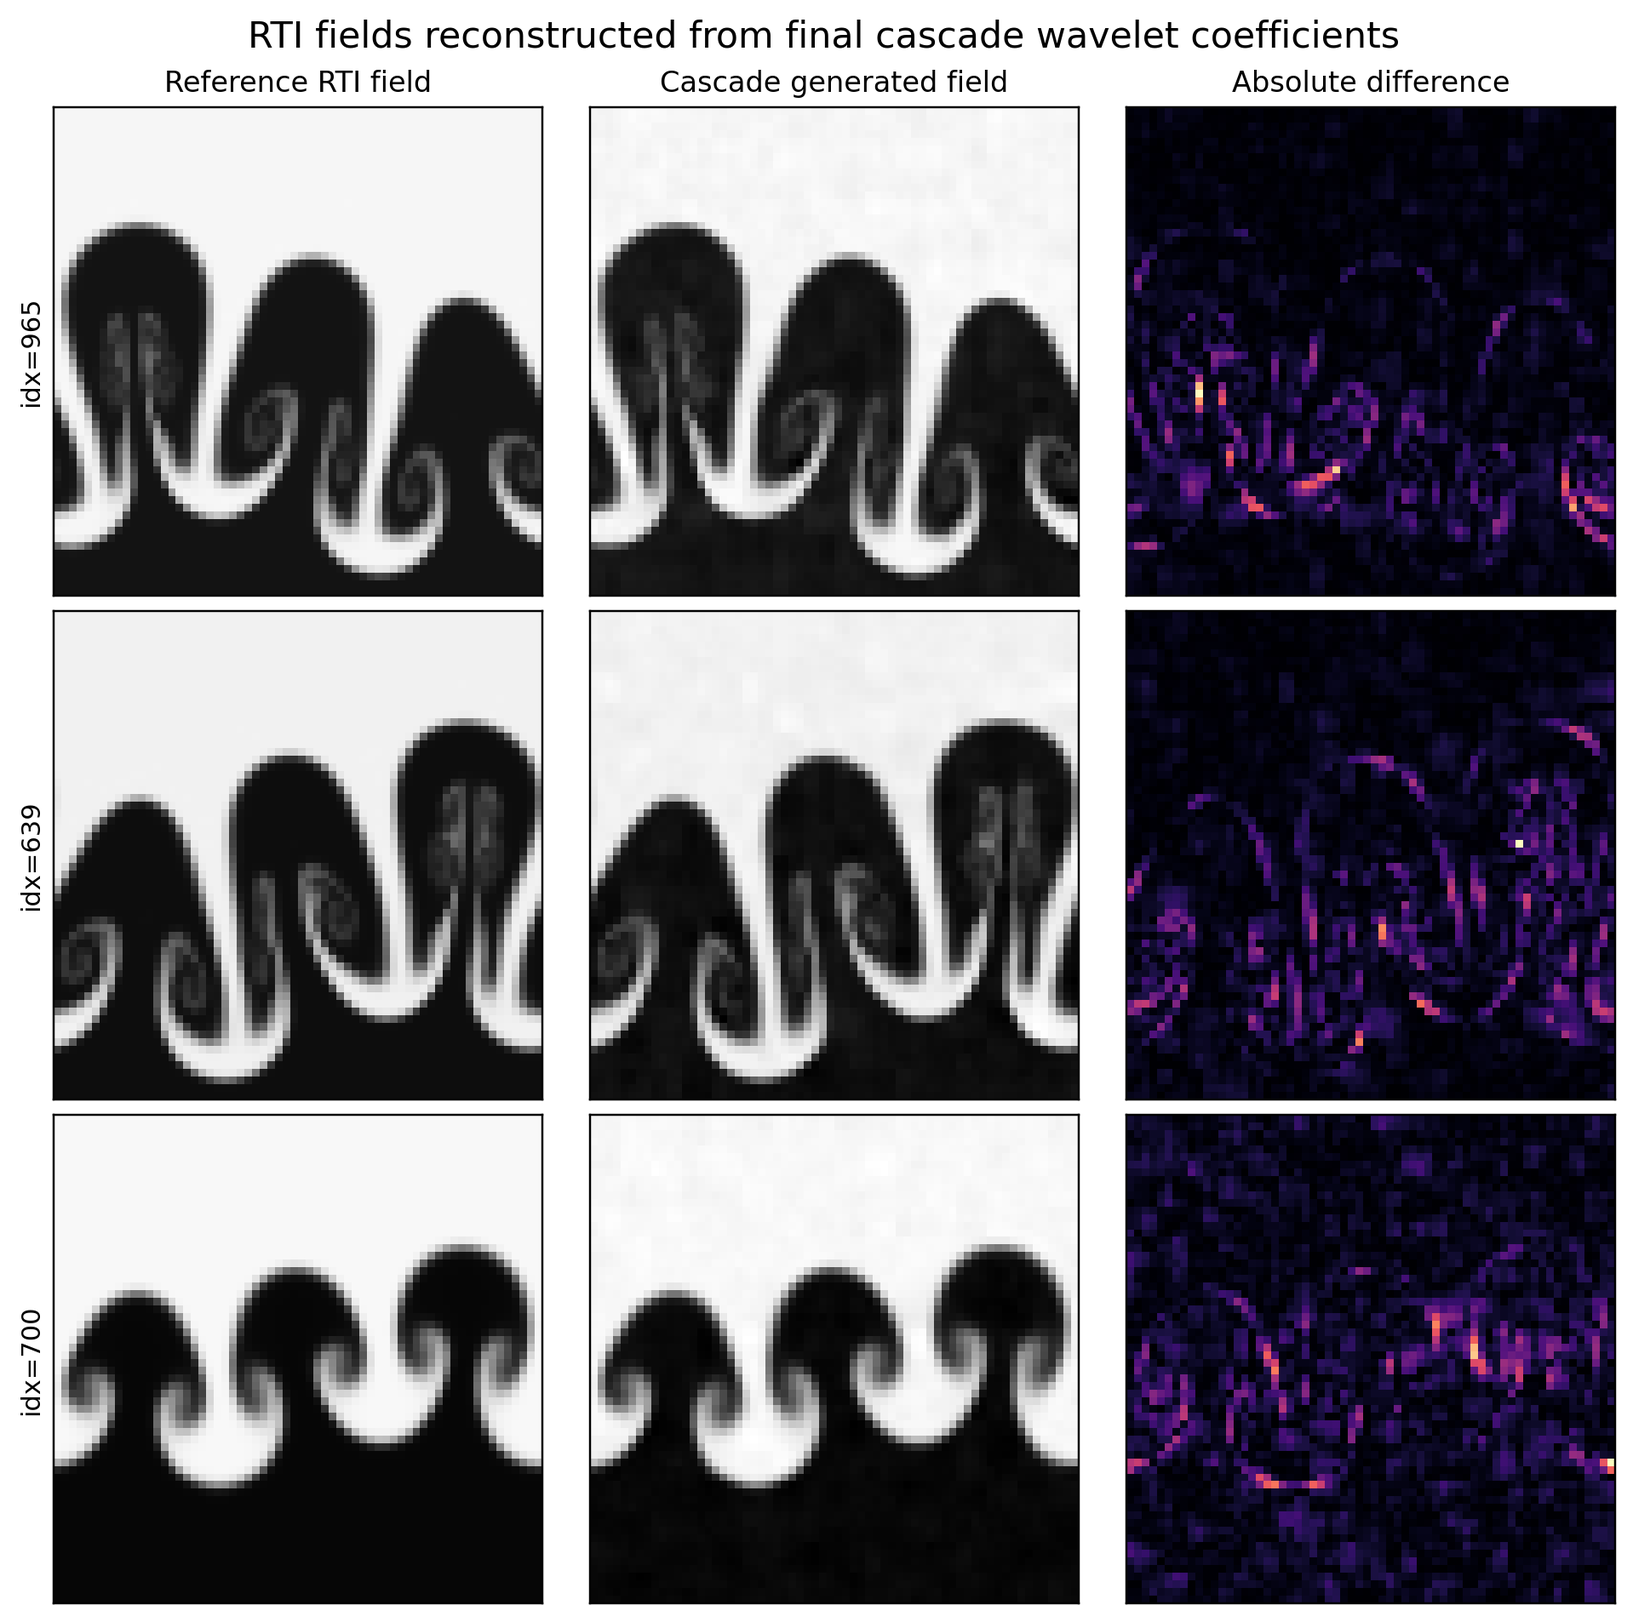
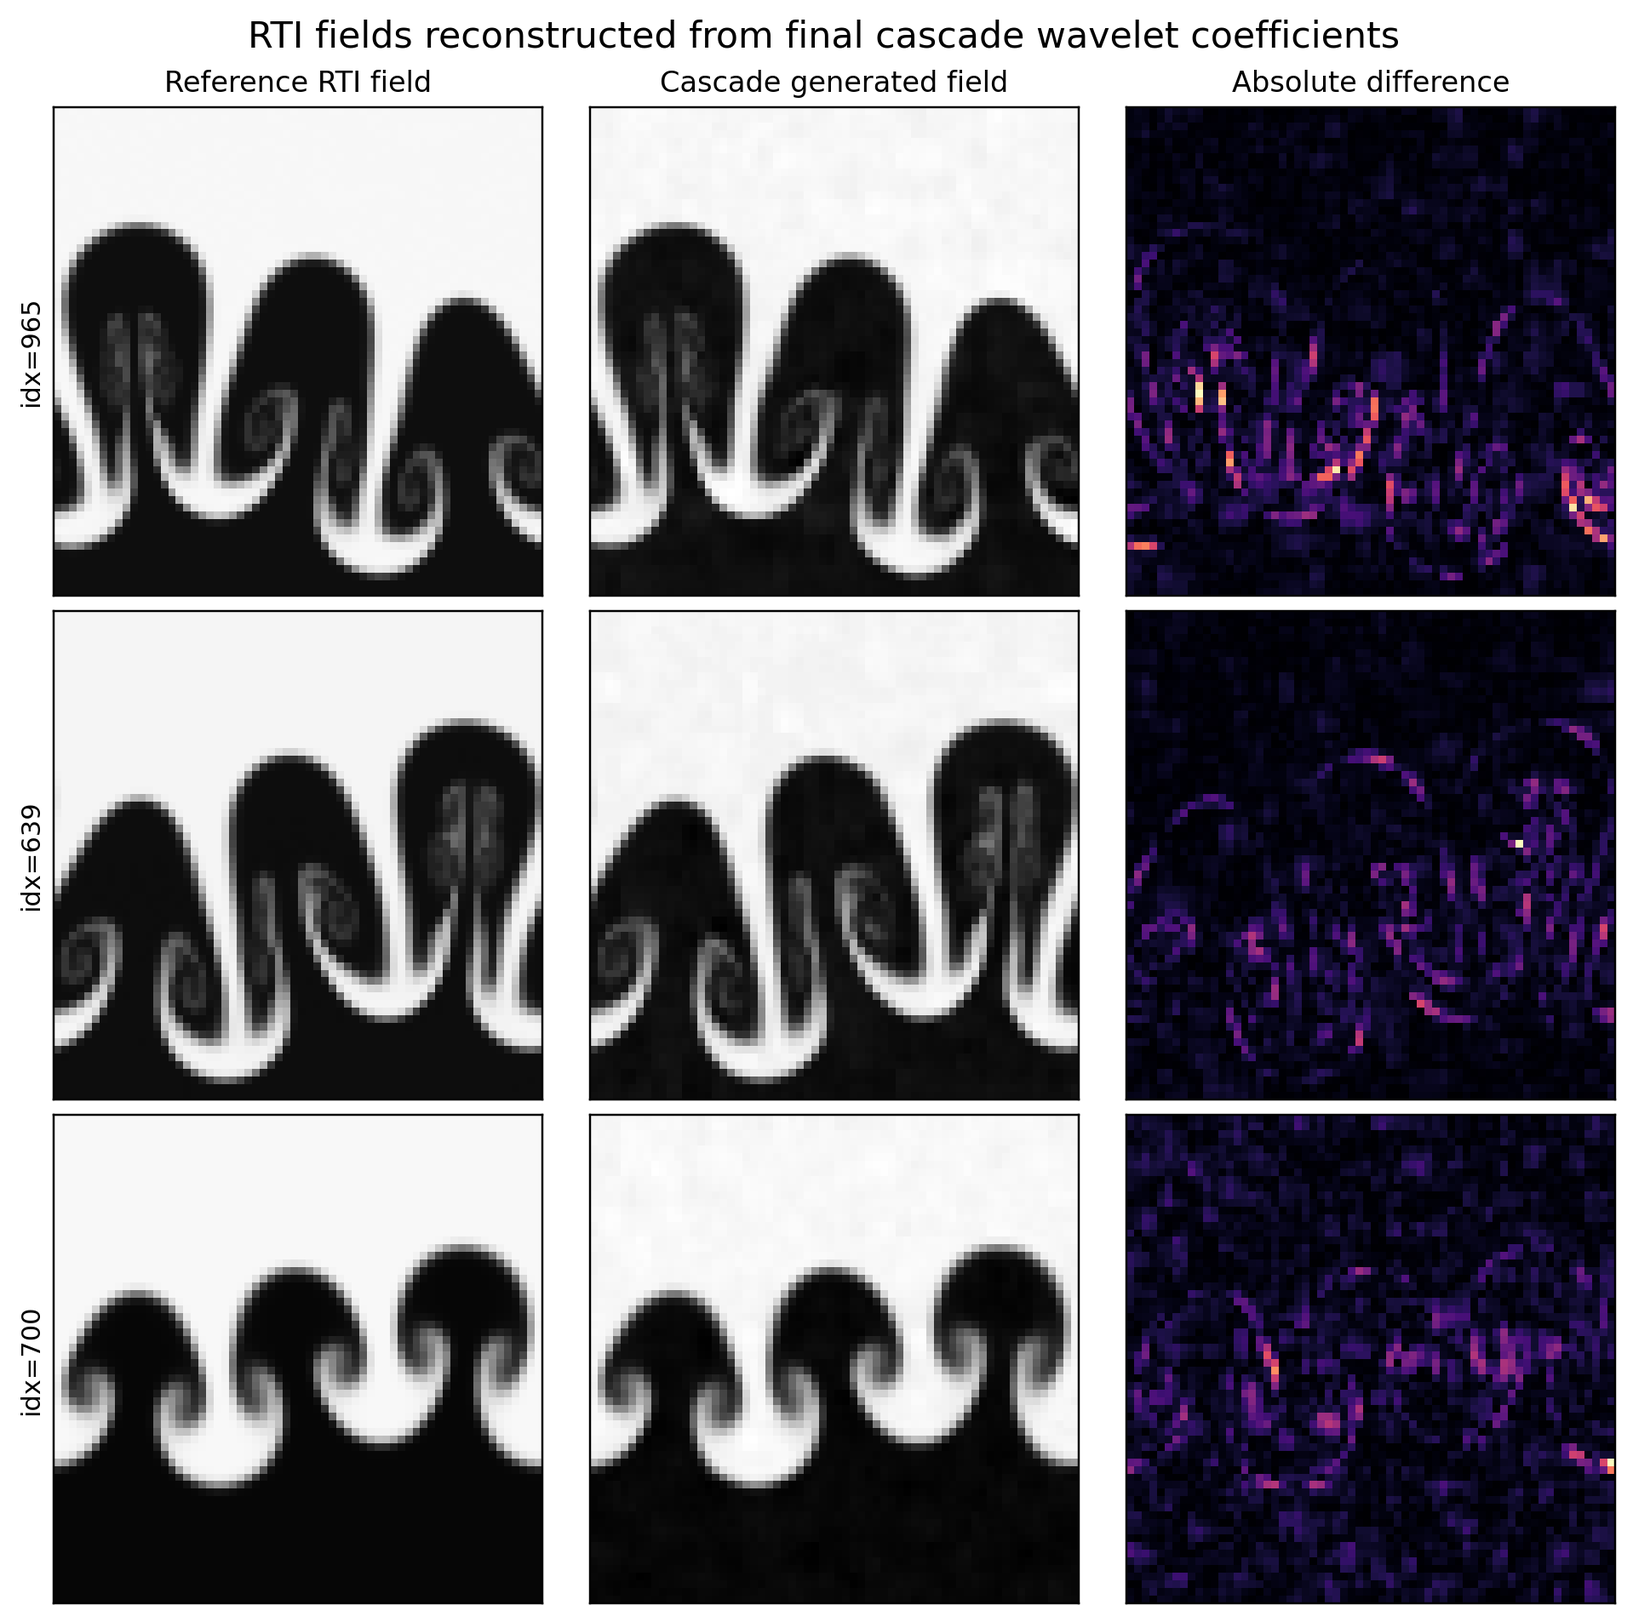
fix(diffusion): WSGM
Gros soucis utilisation du DDPM et pas du SGM pour le coarse

diff --git a/WSGM_Foward_and_Generator.py b/WSGM_Foward_and_Generator.py
@@ -19,15 +19,14 @@ os.environ.setdefault("MPLCONFIGDIR", "/tmp/matplotlib")
 
 from lib.diffusion_lib.SGM import SGM
 from lib.diffusion_lib.UNet import UNet
-from lib.wavelet_diffusion_lib.DDPM import DDPM
 from lib.wavelet_diffusion_lib.ConditionalSGM import WaveletConditionalSGM
 from lib.wavelet_diffusion_lib.ImageVisualizer import ImageVisualizer
 from lib.wavelet_diffusion_lib.Logger import Logger
 from lib.wavelet_diffusion_lib.training_loop import (
     split_wave_batch,
-    training_loop,
     wave_sgm_training_loop,
 )
+from lib.diffusion_lib.training_loop import sgm_training_loop
 from lib.wavelet_diffusion_lib.data_loader import wavelet_approximation_data_loader
 from lib.wavelet_diffusion_lib.utils import get_best_device
 from lib.wavelet_diffusion_lib.wavelet_utils import (
@@ -39,7 +38,7 @@ from lib.wavelet_diffusion_lib.wavelet_utils import (
 )
 
 PROJECT_ROOT = Path(__file__).resolve().parent
-RUN_CONFIG_PATH = PROJECT_ROOT / "Wave_Cascade_Config_SGM.json"
+RUN_CONFIG_PATH = PROJECT_ROOT / "WSGM_Config.json"
 
 
 @dataclass
@@ -102,7 +101,7 @@ class LevelConfig:
 
 @dataclass
 class CoarseConfig:
-    """Configuration indépendante du DDPM inconditionnel sur cA."""
+    """Configuration indépendante du SGM inconditionnel sur cA."""
 
     wavelet_level: int
     device: torch.device
@@ -111,6 +110,8 @@ class CoarseConfig:
     batch_size: int = 128
     n_epochs: int = 100
     lr: float = 1e-3
+    weight_decay: float = 1e-6
+    grad_clip: float | None = 1.0
     normalize_ca: bool = True
     do_train: bool = True
     input_path: str = ""
@@ -119,9 +120,13 @@ class CoarseConfig:
     csv_path: str = "outputs/logs/cascade_sgm/coarse_cA3_RT64.csv"
     config_path: str = "outputs/saved_models/cascade_sgm/coarse_cA3_RT64_config.json"
     time_emb_dim: int = 100
-    n_steps: int = 1000
-    min_beta: float = 1e-4
-    max_beta: float = 0.02
+    beta_min: float = 0.1
+    beta_max: float = 20.0
+    eps_time: float = 1e-2
+    sampling_steps: int = 256
+    prediction_type: str = "v"
+    sampler: str = "heun"
+    clip_denoised: bool = False
     image_channels: int = 1
     unet_depth: int = 3
     unet_blocks_per_level: int = 3
@@ -210,9 +215,9 @@ def build_coarse_loaders(config: CoarseConfig):
     return train_loader, val_loader, mean, std
 
 
-def build_coarse_ddpm(config: CoarseConfig, image_chw: tuple[int, int, int]) -> DDPM:
+def build_coarse_sgm(config: CoarseConfig, image_chw: tuple[int, int, int]) -> SGM:
     network = UNet(
-        n_steps=config.n_steps,
+        n_steps=1000,
         time_emb_dim=config.time_emb_dim,
         size=image_chw[1],
         in_channels=image_chw[0],
@@ -220,15 +225,21 @@ def build_coarse_ddpm(config: CoarseConfig, image_chw: tuple[int, int, int]) -> 
         depth=config.unet_depth,
         blocks_per_level=config.unet_blocks_per_level,
         base_channels=config.unet_base_channels,
+        continuous_time=True,
     )
-    return DDPM(
-        network, n_steps=config.n_steps, min_beta=config.min_beta,
-        max_beta=config.max_beta, device=config.device, image_chw=image_chw,
+    return SGM(
+        network,
+        beta_min=config.beta_min,
+        beta_max=config.beta_max,
+        eps_time=config.eps_time,
+        prediction_type=config.prediction_type,
+        device=config.device,
+        image_chw=image_chw,
     ).to(config.device)
 
 
 def train_coarse(config: CoarseConfig, preview_samples: int) -> None:
-    """Entraîne le DDPM coarse, indépendamment des niveaux SGM conditionnels."""
+    """Entraîne le SGM coarse, indépendamment des niveaux conditionnels."""
     train_loader, val_loader, ca_mean, ca_std = build_coarse_loaders(config)
     first_images, _ = next(iter(train_loader))
     image_chw = tuple(first_images.shape[1:])
@@ -238,15 +249,19 @@ def train_coarse(config: CoarseConfig, preview_samples: int) -> None:
     for path in (config.store_path, config.log_path, config.config_path):
         absolute_path(path).parent.mkdir(parents=True, exist_ok=True)
     experiment = {
-        "kind": "unconditional_coarse_ddpm",
+        "kind": "unconditional_coarse_sgm",
         "seed": config.seed, "store_path_dataset": config.store_path_dataset,
         "wavelet_level": config.wavelet_level, "normalize_ca": config.normalize_ca,
         "ca_mean": None if ca_mean is None else ca_mean.item(),
         "ca_std": None if ca_std is None else ca_std.item(),
         "batch_size": config.batch_size, "n_epochs": config.n_epochs, "lr": config.lr,
+        "weight_decay": config.weight_decay, "grad_clip": config.grad_clip,
         "store_path": config.store_path, "input_path": config.input_path,
-        "time_emb_dim": config.time_emb_dim, "n_steps": config.n_steps,
-        "min_beta": config.min_beta, "max_beta": config.max_beta,
+        "time_emb_dim": config.time_emb_dim, "beta_min": config.beta_min,
+        "beta_max": config.beta_max, "eps_time": config.eps_time,
+        "sampling_steps": config.sampling_steps,
+        "prediction_type": config.prediction_type, "sampler": config.sampler,
+        "clip_denoised": config.clip_denoised,
         "image_chw": image_chw, "unet_depth": config.unet_depth,
         "unet_blocks_per_level": config.unet_blocks_per_level,
         "unet_base_channels": config.unet_base_channels,
@@ -256,18 +271,18 @@ def train_coarse(config: CoarseConfig, preview_samples: int) -> None:
     logger.log_experiment_start(experiment)
     logger.save_config(experiment, absolute_path(config.config_path))
 
-    ddpm = build_coarse_ddpm(config, image_chw)
+    sgm = build_coarse_sgm(config, image_chw)
     if config.input_path:
         checkpoint = absolute_path(config.input_path)
         if not checkpoint.exists():
             raise FileNotFoundError(f"Checkpoint coarse introuvable: {checkpoint}")
-        ddpm.load_state_dict(torch.load(checkpoint, map_location=config.device, weights_only=True))
-    optimizer = AdamW(ddpm.parameters(), lr=config.lr)
+        sgm.load_state_dict(torch.load(checkpoint, map_location=config.device, weights_only=True))
+    optimizer = AdamW(sgm.parameters(), lr=config.lr, weight_decay=config.weight_decay)
     if config.do_train:
-        training_loop(
-            ddpm, train_loader, config.n_epochs, optimizer, config.device,
+        sgm_training_loop(
+            sgm, train_loader, config.n_epochs, optimizer, config.device,
             store_path=absolute_path(config.store_path), logger=logger,
-            val_loader=val_loader,
+            val_loader=val_loader, grad_clip=config.grad_clip,
         )
     checkpoint = absolute_path(config.store_path)
     if not config.do_train and config.input_path:
@@ -278,14 +293,18 @@ def train_coarse(config: CoarseConfig, preview_samples: int) -> None:
         )
 
     if preview_samples > 0:
-        ddpm.load_state_dict(torch.load(checkpoint, map_location=config.device, weights_only=True))
-        ddpm.eval()
+        sgm.load_state_dict(torch.load(checkpoint, map_location=config.device, weights_only=True))
+        sgm.eval()
         with torch.no_grad():
-            generated = ddpm.sample(n_samples=preview_samples, device=config.device).cpu()
+            generated = sgm.sample(
+                n_samples=preview_samples, device=config.device,
+                n_steps=config.sampling_steps, solver=config.sampler,
+                clip_denoised=config.clip_denoised,
+            ).cpu()
         if config.normalize_ca and ca_mean is not None and ca_std is not None:
             generated = generated * ca_std + ca_mean
         torch.save(generated, absolute_path(config.store_path).with_suffix(".preview.pt"))
-    logger.log_experiment_end("Coarse DDPM training finished")
+    logger.log_experiment_end("Coarse SGM training finished")
 
 
 def build_sgm(config: LevelConfig | dict[str, Any], image_hw, coeff_mean, coeff_std, device):
@@ -442,28 +461,35 @@ def generate_unconditional_ca(saved: dict[str, Any], device: torch.device, n_sam
     return samples
 
 
-def generate_coarse_ddpm(saved: dict[str, Any], device: torch.device, n_samples: int) -> torch.Tensor:
-    """Génère cA avec le DDPM coarse entraîné par cette cascade."""
+def generate_coarse_sgm(saved: dict[str, Any], device: torch.device, n_samples: int) -> torch.Tensor:
+    """Génère cA avec le SGM coarse entraîné par cette cascade."""
     image_chw = tuple(saved["image_chw"])
     config = type("SavedCoarseConfig", (), {
-        "n_steps": int(saved["n_steps"]),
         "time_emb_dim": int(saved.get("time_emb_dim", 100)),
         "unet_out_channels": saved.get("unet_out_channels"),
         "unet_depth": int(saved.get("unet_depth", 3)),
         "unet_blocks_per_level": int(saved.get("unet_blocks_per_level", 3)),
         "unet_base_channels": int(saved.get("unet_base_channels", 10)),
-        "min_beta": float(saved.get("min_beta", 1e-4)),
-        "max_beta": float(saved.get("max_beta", 0.02)),
+        "beta_min": float(saved.get("beta_min", 0.1)),
+        "beta_max": float(saved.get("beta_max", 20.0)),
+        "eps_time": float(saved.get("eps_time", 1e-2)),
+        "prediction_type": saved.get("prediction_type", "v"),
         "device": device,
     })()
-    model = build_coarse_ddpm(config, image_chw)
+    model = build_coarse_sgm(config, image_chw)
     checkpoint = absolute_path(saved["store_path"])
     if not checkpoint.exists():
         raise FileNotFoundError(f"Checkpoint coarse introuvable: {checkpoint}")
     model.load_state_dict(torch.load(checkpoint, map_location=device, weights_only=True))
     model.eval()
     with torch.no_grad():
-        samples = model.sample(n_samples=n_samples, device=device).cpu()
+        samples = model.sample(
+            n_samples=n_samples,
+            device=device,
+            n_steps=int(saved.get("sampling_steps", 256)),
+            solver=saved.get("sampler", "heun"),
+            clip_denoised=bool(saved.get("clip_denoised", False)),
+        ).cpu()
     if saved.get("normalize_ca", False):
         samples = samples * float(saved["ca_std"]) + float(saved["ca_mean"])
     return samples
@@ -524,7 +550,7 @@ def generate_cascade(run_config, device):
     )
     count = min(len(coarse_data), int(n_samples)) if n_samples is not None else min(len(coarse_data), batch_size)
     current_ca = coarse_data[:count, :1].float()
-    if initial_source == "coarse_ddpm":
+    if initial_source == "coarse_sgm":
         coarse_config_path = absolute_path(
             generation.get("coarse_config_path", make_coarse_config(run_config, device).config_path)
         )
@@ -532,7 +558,7 @@ def generate_cascade(run_config, device):
             coarse_saved = json.load(file)
         if generation.get("coarse_checkpoint_path"):
             coarse_saved["store_path"] = generation["coarse_checkpoint_path"]
-        current_ca = generate_coarse_ddpm(coarse_saved, device, count)
+        current_ca = generate_coarse_sgm(coarse_saved, device, count)
     elif initial_source == "generated":
         config_path = absolute_path(generation["initial_ca_config_path"])
         with config_path.open("r", encoding="utf-8") as file:
@@ -541,7 +567,7 @@ def generate_cascade(run_config, device):
             initial_config["store_path"] = generation["initial_ca_checkpoint_path"]
         current_ca = generate_unconditional_ca(initial_config, device, count)
     elif initial_source != "dataset":
-        raise ValueError("initial_ca_source doit valoir 'dataset', 'coarse_ddpm' ou 'generated'.")
+        raise ValueError("initial_ca_source doit valoir 'dataset', 'coarse_sgm' ou 'generated'.")
     if tuple(current_ca.shape) != tuple(coarse_data[:count, :1].shape):
         raise ValueError("Le modele cA produit une resolution incompatible avec la cascade.")
     torch.save(current_ca, output_dir / f"j{levels[0]}_initial_cA.pt")

diff --git a/doc/BDRPReportTemplate/chapters/chapter3/sections/09.tex b/doc/BDRPReportTemplate/chapters/chapter3/sections/09.tex
@@ -764,6 +764,132 @@ introduced by \citet{Ho2020DDPM},
 % score field becomes increasingly structured and separates trajectories toward
 % the different modes of the data distribution.
 
+
+%%%%%%%%%%%%%%%%%%%%%%%%%%%%%%%%%%%%%%%%%%%%%%%%%%%%%%%%%%%%%%
+
+\subsection{Sampling from the learned reverse process}
+\label{subsec:sampling_reverse_process}
+
+The training objective above provides an approximation of the score
+$\nabla_{\mathbf{x}}\log p_t(\mathbf{x})$ for every diffusion time. It does
+not, however, directly generate a new density field. Once the network has been
+trained, sampling consists in replacing the unknown score in the reverse
+process by its neural approximation and solving the resulting stochastic
+differential equation numerically.
+
+To remain consistent with the time reversal introduced in the previous proof,
+let $ \tau = T - t$ and so $ \mathbf{y}_t = \mathbf{x}_{T-t} $ and $ q_t(\mathbf{y}) = p_{T-t}(\mathbf{y}) $. The reverse process is then written with a time variable increasing from $ t = 0 $ to $ t = T $:
+\begin{equation}
+    d\mathbf{y}
+    =
+    \left[
+        -\mathbf{f}(\mathbf{y},T-t)
+        +g(T-t)^2
+        \nabla_{\mathbf{y}}\log p_{T-t}(\mathbf{y})
+    \right]dt
+    +
+    g(T-t)d\overline{\mathbf{w}}.
+    \label{eq:reverse_sde_increasing_time}
+\end{equation}
+At the beginning of the reverse process, we have $ \mathbf{y}_0=\mathbf{x}_T \sim p_T \approx \mathcal{N}(\mathbf{0},\mathbf{I}) $ and if Equation~\eqref{eq:reverse_sde_increasing_time} were solved using the exact
+score, its terminal random variable would satisfy $ \mathbf{y}_T\sim p_0=p_{\mathrm{data}} $.
+In practice, the exact score is replaced by the learned approximation
+$\mathbf{s}_{\theta}$, which gives
+\begin{equation}
+    d\mathbf{y}
+    =
+    \mathbf{b}_{\theta}(\mathbf{y},t)dt
+    +g(T-t)d\overline{\mathbf{w}},
+    \label{eq:learned_reverse_sde_sampling}
+\end{equation}
+\vspace{-5pt}
+\begin{equation*}
+    \text{with,} \quad
+    \mathbf{b}_{\theta}(\mathbf{y},t)
+    =
+    -\mathbf{f}(\mathbf{y},T-t)
+    +g(T-t)^2
+    \mathbf{s}_{\theta}(\mathbf{y},T-t).
+    \label{eq:learned_reverse_drift_sampling}
+\end{equation*}
+Using the noise-prediction parameterization
+$\mathbf{s}_{\theta}(\mathbf{x}_t,t)
+=-\boldsymbol{\epsilon}_{\theta}(\mathbf{x}_t,t)/\sigma_t$, the drift can
+also be evaluated directly from the output of the trained network.
+
+Equation~\eqref{eq:learned_reverse_sde_sampling} generally has no closed-form
+solution because its drift depends on the nonlinear neural network. A temporal
+grid
+\begin{equation}
+    0=t_0<t_1<\cdots<t_N=T,
+    \qquad
+    \Delta t_n=t_{n+1}-t_n,
+\end{equation}
+is therefore introduced. The Wiener increment over one time step is sampled as
+\begin{equation}
+    \Delta\overline{\mathbf{w}}_n
+    =
+    \sqrt{\Delta t_n}\,\mathbf{z}_n,
+    \qquad
+    \mathbf{z}_n\sim\mathcal{N}(\mathbf{0},\mathbf{I}).
+\end{equation}
+A direct Euler--Maruyama discretization would give
+\begin{equation}
+    \mathbf{y}_{n+1}
+    =
+    \mathbf{y}_n
+    +\Delta t_n\mathbf{b}_{\theta}(\mathbf{y}_n,t_n)
+    +g(T-t_n)\sqrt{\Delta t_n}\,\mathbf{z}_n.
+    \label{eq:euler_maruyama_sampling}
+\end{equation}
+This expression makes the role of the trained network explicit: at each noise
+level, the score estimate modifies the drift of the reverse diffusion and
+therefore determines the direction in which the current noisy sample evolves.
+The Gaussian term preserves the stochastic nature of the reverse process.
+
+In this work, the integration is performed using a predictor--corrector scheme
+of Heun type. First, an Euler prediction is computed,
+\begin{equation}
+    \widetilde{\mathbf{y}}_{n+1}
+    =
+    \mathbf{y}_n
+    +\Delta t_n\mathbf{b}_{\theta}(\mathbf{y}_n,t_n)
+    +g(T-t_n)\sqrt{\Delta t_n}\,\mathbf{z}_n.
+    \label{eq:heun_sampling_predictor}
+\end{equation}
+The drift is then evaluated again at the predicted state, and the two drift
+estimates are averaged,
+\begin{equation}
+\begin{aligned}
+    \mathbf{y}_{n+1}
+    ={}&
+    \mathbf{y}_n
+    +\frac{\Delta t_n}{2}
+    \left[
+        \mathbf{b}_{\theta}(\mathbf{y}_n,t_n)
+        +
+        \mathbf{b}_{\theta}
+        (\widetilde{\mathbf{y}}_{n+1},t_{n+1})
+    \right]
+    \\
+    &+
+    g(T-t_n)\sqrt{\Delta t_n}\,\mathbf{z}_n.
+    \label{eq:heun_sampling_corrector}
+\end{aligned}
+\end{equation}
+The same Gaussian realization $\mathbf{z}_n$ is used in the prediction and
+correction. Compared with Euler--Maruyama, the Heun correction accounts for the
+variation of the learned drift over the time step, at the cost of a second
+evaluation of the neural network.
+
+Starting from $\mathbf{y}_0\sim\mathcal{N}(\mathbf{0},\mathbf{I})$ and
+repeating these updates for $n=0,\ldots,N-1$ produces the final state
+$\mathbf{y}_N$. Since $\mathbf{y}_N$ approximates a sample from $p_0$, it is
+interpreted as a newly generated RTI density field. Repeating the procedure
+with independent initial Gaussian samples and independent Wiener increments
+produces an ensemble whose distribution approximates
+$p_{\mathrm{data}}$.
+
 This behavior is illustrated in
 Figure~\ref{fig:diffusion_1d_reverse_score}. In the one-dimensional example, the
 score is represented by arrows along the $x$ axis. At each diffusion time, the

diff --git a/lib/diffusion_lib/training_loop.py b/lib/diffusion_lib/training_loop.py
@@ -173,18 +173,20 @@ def sgm_training_loop(
 ):
     """Entraine un SGM VP-SDE par minibatches et sauvegarde le meilleur modele."""
     mse = nn.MSELoss()
-    best_loss = float("inf")
+    start_epoch = logger.last_epoch() if logger else 0
+    best_loss = logger.min_numeric_column("best_loss") if logger else float("inf")
     loss_list = []
     Path(store_path).parent.mkdir(parents=True, exist_ok=True)
 
     if logger:
         logger.info(f"SGM training started for {n_epochs} epochs")
 
-    for epoch in tqdm(range(n_epochs), desc="SGM training", colour="#00ff00"):
+    end_epoch = start_epoch + n_epochs
+    for epoch in tqdm(range(start_epoch, end_epoch), desc="SGM training", colour="#00ff00"):
         sgm.train()
         weighted_loss = 0.0
         n_total = 0
-        for batch in tqdm(loader, leave=False, desc=f"Epoch {epoch + 1}/{n_epochs}", colour="#005500"):
+        for batch in tqdm(loader, leave=False, desc=f"Epoch {epoch + 1}/{end_epoch}", colour="#005500"):
             loss = _sgm_epsilon_loss(sgm, batch, mse, device)
             optim.zero_grad(set_to_none=True)
             loss.backward()
